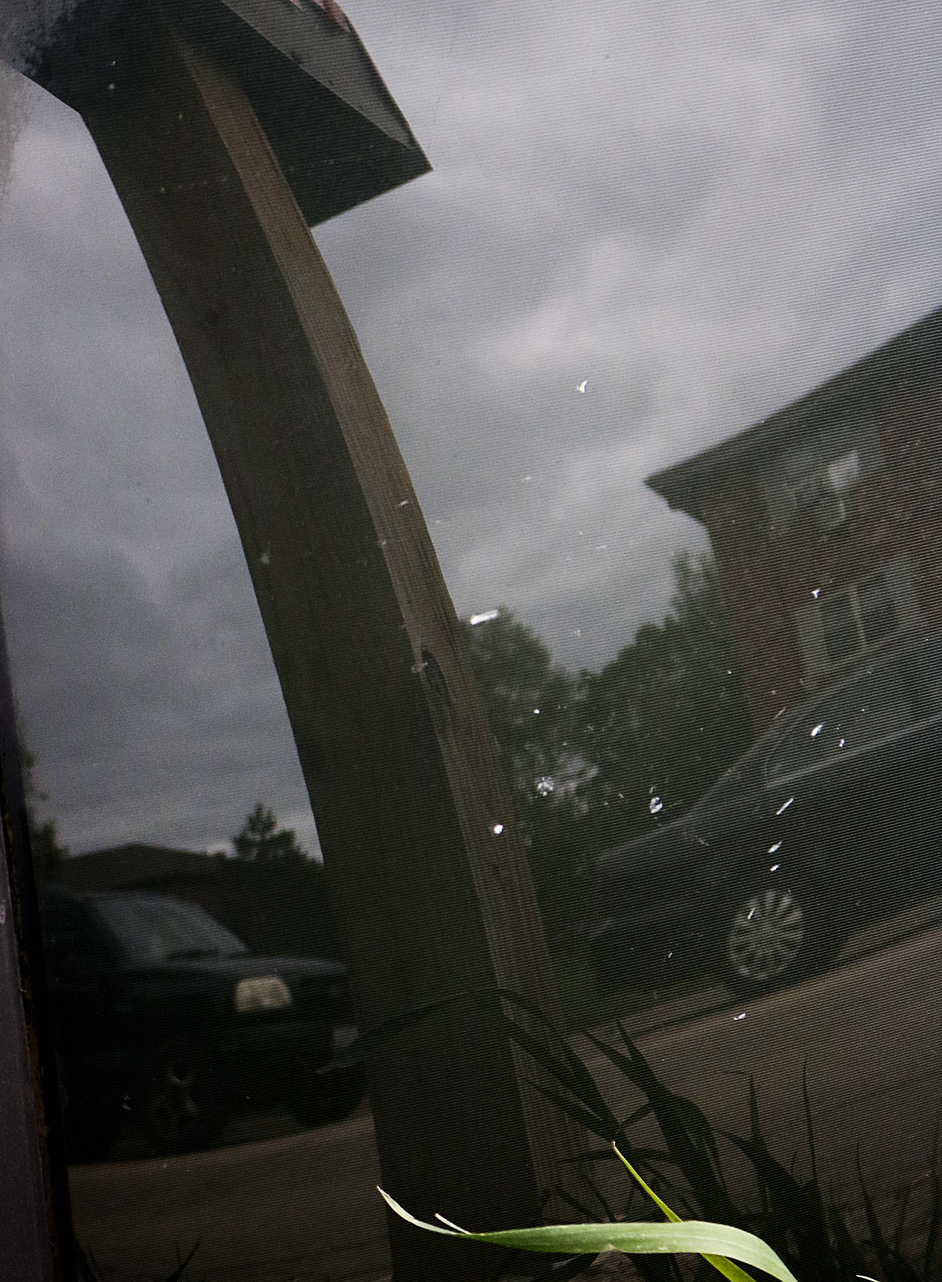
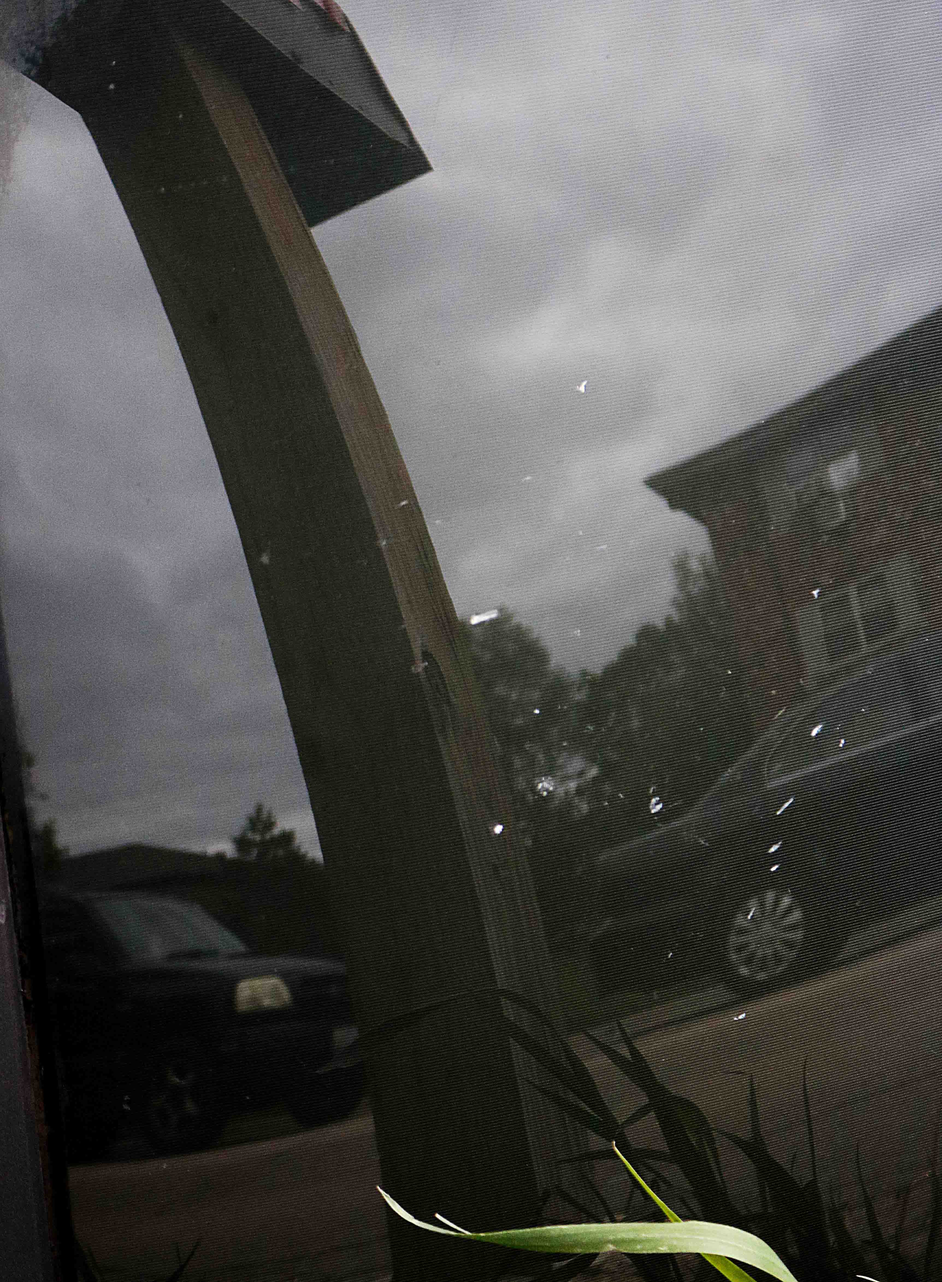
Image size optimization + portfolio update

diff --git a/pages/art/portfolio.html b/pages/art/portfolio.html
@@ -34,6 +34,10 @@
 						<a href="/assets/images/art/portfolio/palatine-trail.jpg">
 							<img src="/assets/images/art/portfolio/palatine-trail.jpg" alt="Palatine Trail">
 						</a>
+
+						<a href="/assets/images/art/portfolio/the-light.jpg">
+							<img src="/assets/images/art/portfolio/the-light.jpg" alt="The Light">
+						</a>
 					</div>
 					<div style="max-width: 350px;float: right; margin-left: 20px; margin-right: 10px">
 						<a href="/assets/images/art/portfolio/reading.jpg">
